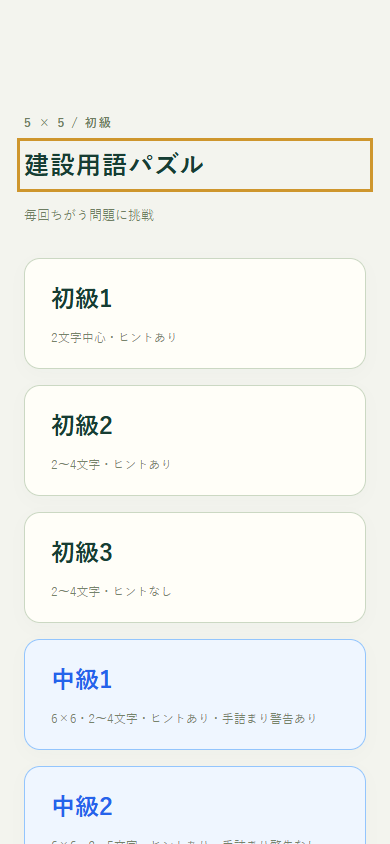
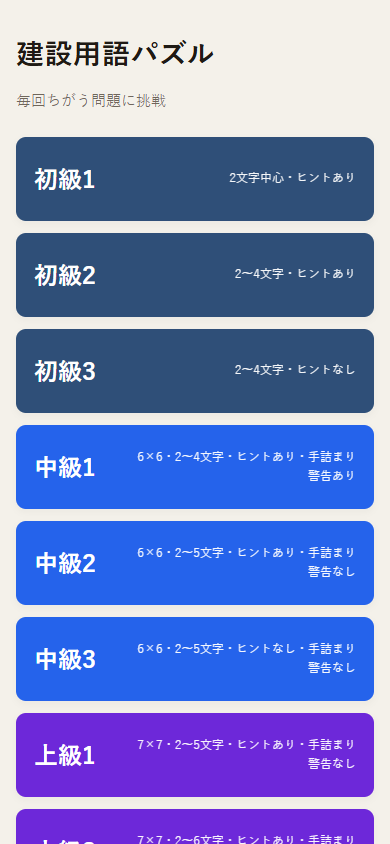
Add files via upload

diff --git a/css/style.css b/css/style.css
@@ -45,3 +45,77 @@ body[data-difficulty="intermediate"] .clear-controls .primary,body[data-difficul
 body[data-difficulty="intermediate"] .controls button:hover:not(:disabled),body[data-difficulty="advanced"] .controls button:hover:not(:disabled) { background:var(--tier-frame); }
 .stage-button[data-difficulty="intermediate"]:hover:not(:disabled) { background:#dbeafe; }
 .stage-button[data-difficulty="advanced"]:hover:not(:disabled) { background:#ede9fe; }
+/* Claude design reference, adapted to the existing DOM. No runtime changes. */
+:root { --ui-bg:#f4f1ea; --ui-ink:#1f1a14; --ui-muted:#6f665b; --ui-primary:#2f4f78; --ui-secondary:#7d705e; --ui-frame:#5b4a38; --ui-empty:#7a6650; --ui-stage:#b8641a; --ui-clear:#e07a1f; }
+body[data-difficulty="beginner"] { --ui-bg:#f4f1ea; }
+body[data-difficulty="intermediate"] { --ui-bg:#eff6ff; --ui-primary:#2563eb; --ui-secondary:#64748b; --ui-frame:#1e40af; --ui-empty:#5374d1; --ui-stage:#1d4ed8; --ui-clear:#2563eb; }
+body[data-difficulty="advanced"] { --ui-bg:#f5f3ff; --ui-primary:#6d28d9; --ui-secondary:#6b6585; --ui-frame:#4c1d95; --ui-empty:#7a57c2; --ui-stage:#5b21b6; --ui-clear:#6d28d9; }
+html { background:#f4f1ea; }
+body,body[data-difficulty] { background:var(--ui-bg);color:var(--ui-ink);font-family:"Hiragino Kaku Gothic ProN","Yu Gothic",Meiryo,sans-serif; }
+.selection-screen { max-width:592px;padding:32px 16px 28px; }
+.selection-screen h1 { font-size:clamp(28px,5vw,32px);letter-spacing:.02em; }
+.selection-label { color:#b8641a;letter-spacing:.12em; }
+.selection-subtitle { color:var(--ui-muted);font-size:15px;line-height:1.6;margin:12px 0 24px; }
+.stage-buttons { gap:12px; }
+.stage-button,.stage-button[data-difficulty] { display:flex;align-items:center;justify-content:space-between;gap:14px;min-height:84px;padding:16px 18px;border:0;border-radius:10px;background:#2f4f78;color:white;box-shadow:0 3px 8px #1f1a140a; }
+.stage-button[data-difficulty="intermediate"] { background:#2563eb; }
+.stage-button[data-difficulty="advanced"] { background:#6d28d9; }
+.stage-button strong { font-size:24px;white-space:nowrap; }
+.stage-button small { color:white;opacity:.95;text-align:right;font-size:13px;line-height:1.6;margin:0;max-width:72%; }
+.stage-button:hover:not(:disabled),.stage-button[data-difficulty]:hover:not(:disabled) { filter:brightness(1.08);background:#2f4f78; }
+.stage-button[data-difficulty="intermediate"]:hover:not(:disabled) { background:#2563eb; }
+.stage-button[data-difficulty="advanced"]:hover:not(:disabled) { background:#6d28d9; }
+#play-screen[data-grid-size] { --board-size:min(calc(100vw - 32px),calc(100svh - 240px),560px);max-width:592px;margin:auto;padding:8px 16px calc(8px + env(safe-area-inset-bottom)); }
+.play-header,body[data-difficulty] .play-header { color:var(--ui-stage);height:64px;padding:4px 0; }
+.play-header h1 { font-size:16px;letter-spacing:0; }
+.stage-label { font-size:clamp(22px,6vw,26px);line-height:1.2;font-weight:900;letter-spacing:0; }
+.board,body[data-difficulty] .board,#play-screen[data-grid-size] .board { background:var(--ui-frame);padding:6px;gap:6px;border-radius:12px;box-shadow:0 6px 18px #1f1a1414; }
+#play-screen[data-grid-size="6"] .board { gap:5px;padding:5px; }
+#play-screen[data-grid-size="7"] .board { gap:4px;padding:4px; }
+.tile,#play-screen[data-grid-size] .tile { background:#fffaf0;color:#1f1a14;border:0;border-radius:8px;box-shadow:0 2px 0 #0005;font-weight:900; }
+#play-screen[data-grid-size="7"] .tile { border-radius:6px; }
+.tile.empty,#play-screen[data-grid-size] .tile.empty { background:var(--ui-empty);border:0;box-shadow:inset 0 2px 4px #0005; }
+.tile.selected,.tile.hovered,#play-screen[data-grid-size] .tile.selected,#play-screen[data-grid-size] .tile.hovered { background:#ffd27a;outline:3px solid #e07a1f;outline-offset:-1px; }
+.tile.dragging { opacity:.3; }
+.tile.clearing,#play-screen[data-grid-size] .tile.clearing { background:#ffe14d;outline:3px solid #e07a1f; }
+.drag-ghost { background:#fffaf0;color:#1f1a14;border-color:#e07a1f;border-radius:8px;box-shadow:0 8px 18px #0005; }
+.hint-message { color:#8a4b0f;font-size:14px;font-weight:700;line-height:1.6;min-height:26px; }
+.controls { grid-template-columns:repeat(4,minmax(0,1fr));height:64px;gap:10px;padding:8px 0; }
+.controls:has(#hint[hidden]) { grid-template-columns:repeat(3,minmax(0,1fr)); }
+.controls button,.clear-controls button,body[data-difficulty] .controls button,body[data-difficulty] .clear-controls button { background:var(--ui-primary);color:white;border:0;border-radius:10px;min-height:48px;padding:10px 12px;font-size:16px;font-weight:700; }
+#reset,#new-problem,body[data-difficulty] #reset,body[data-difficulty] #new-problem { background:var(--ui-secondary); }
+#hint,body[data-difficulty] #hint { background:#b8641a; }
+.controls button:hover:not(:disabled),body[data-difficulty] .controls button:hover:not(:disabled),.clear-controls button:hover { background:var(--ui-primary);filter:brightness(1.1); }
+.selection-back,body[data-difficulty] .selection-back { width:var(--board-size);max-width:100%;height:48px;min-height:48px;margin:6px auto 0;padding:10px 12px;border:2px solid var(--ui-primary);border-radius:10px;background:transparent;color:var(--ui-primary);font-size:16px;font-weight:700;text-decoration:none; }
+.clear-screen { max-width:592px;padding:30px 16px; }
+.clear-heading { margin-bottom:22px; }
+.clear-heading h2 { color:var(--ui-clear);font-size:clamp(30px,7vw,38px);letter-spacing:.04em; }
+.clear-heading>p { color:var(--ui-muted); }
+#clear-stage { color:var(--ui-ink);font-size:20px;font-weight:700; }
+.clear-mark { background:#fffaf0;color:var(--ui-clear); }
+.learned { display:block;border-radius:12px;background:white;overflow:hidden; }
+.learned-word { background:transparent;border:0;border-radius:0;padding:14px 16px; }
+.learned-word+.learned-word { border-top:1px solid #ebe3d6; }
+.learned-word h3 { font-size:22px; }
+.learned-word p { color:var(--ui-ink);font-size:15px;line-height:1.7;margin:4px 0 0; }
+.clear-controls { display:grid;grid-template-columns:1fr;gap:10px;margin-top:20px; }
+body[data-difficulty] .clear-controls .primary { color:white;background:var(--ui-primary); }
+#clear-selection { background:var(--ui-secondary); }
+.clear-controls #clear-undo { background:transparent;color:var(--ui-primary);border:2px solid var(--ui-primary); }
+dialog { border:0;border-radius:12px;background:white;color:var(--ui-ink);text-align:center;box-shadow:0 12px 48px #1f1a1440; }
+dialog h2 { color:#c0392b; } dialog p { font-size:15px; } dialog button { background:var(--ui-primary);font-size:16px; }
+dialog::backdrop { background:#1e18128c; }
+@media(max-width:599px) {
+ #play-screen[data-grid-size] { --board-size:min(calc(100vw - 24px),calc(100svh - 282px),560px);max-width:584px;padding:6px 12px calc(6px + env(safe-area-inset-bottom)); }
+ .controls,.controls:has(#hint[hidden]) { grid-template-columns:repeat(2,minmax(0,1fr));height:112px;gap:8px;padding:4px 0; }
+ .controls:has(#hint[hidden]) #new-problem { grid-column:1 / -1; }
+ .controls button { white-space:nowrap; }
+ .stage-button small { max-width:70%;font-size:12px; }
+}
+@media(max-width:599px) and (max-height:540px) {
+ #play-screen[data-grid-size] { --board-size:min(calc(100vw - 24px),260px);height:auto;min-height:100svh; }
+ .play-area { flex:none;margin:10px auto; }
+}
+@media(prefers-reduced-motion:reduce) { .stage-button,.controls button { transition:none; } }
+#selection-title:focus-visible,#clear-title:focus-visible { outline:none; }
+.selection-label { display:none; }
